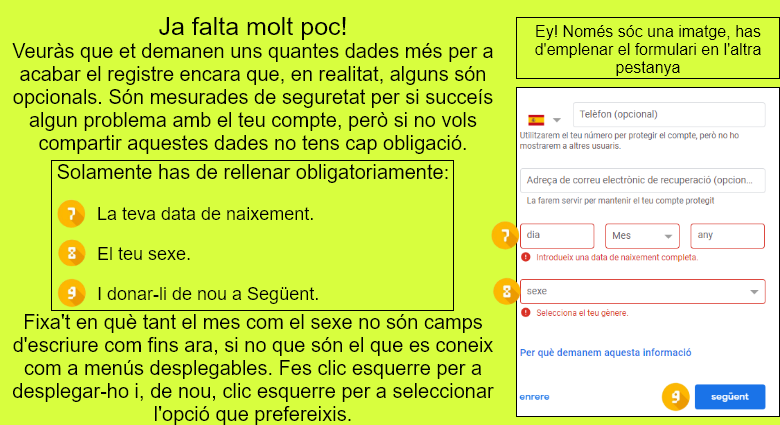
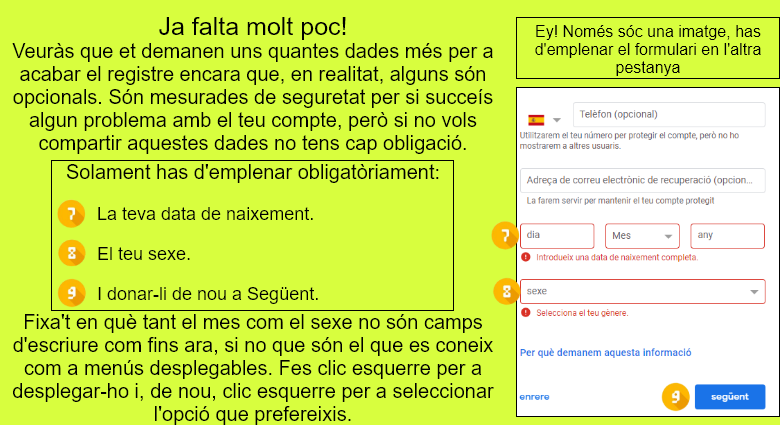
ALL TRANSLATED!

Changed region(s): [[0.0615, 0.3671, 0.5846, 0.4282]]

diff --git a/src/assets/LessonsData.js b/src/assets/LessonsData.js
@@ -20,6 +20,17 @@ import img18cat  from "./images/1.8cat.png"
 import img19cat  from "./images/1.9cat.png"
 import img110cat  from "./images/1.10cat.png"
 import img111cat  from "./images/1.11cat.png"
+import img11en from "./images/1.1en.png"
+import img12en from "./images/1.2en.png"
+import img13en from "./images/1.3en.png"
+import img14en from "./images/1.4en.png"
+import img15en from "./images/1.5en.png"
+import img16en from "./images/1.6en.png"
+import img17en from "./images/1.7en.png"
+import img18en from "./images/1.8en.png"
+import img19en from "./images/1.9en.png"
+import img110en from "./images/1.10en.png"
+import img111en from "./images/1.11en.png"
 import img21es from "./images/2.1es.png"
 import img22es from "./images/2.2es.png"
 import img23es from "./images/2.3es.png"
@@ -40,6 +51,16 @@ import img27cat from "./images/2.7cat.png"
 import img28cat from "./images/2.8cat.png"
 import img29cat from "./images/2.9cat.png"
 import img210cat from"./images/2.10cat.png"
+import img21en from "./images/2.1en.png"
+import img22en from "./images/2.2en.png"
+import img23en from "./images/2.3en.png"
+import img24en from "./images/2.4en.png"
+import img25en from "./images/2.5en.png"
+import img26en from "./images/2.6en.png"
+import img27en from "./images/2.7en.png"
+import img28en from "./images/2.8en.png"
+import img29en from "./images/2.9en.png"
+import img210en from"./images/2.10en.png"
 
 export const lessonsData = [
     {
@@ -51,61 +72,73 @@ export const lessonsData = [
                 textoBoton: 'lessonContent.lesson1.btn1',
                 imges: img11es,
                 imgcat: img11cat,
+                imgen: img11en,
             },
             {
                 textoBoton: 'lessonContent.lesson1.btn2',
                 imges: img12es,
                 imgcat: img12cat,
+                imgen: img12en,
             },
             {
                 textoBoton: 'lessonContent.lesson1.btn3',
                 imges: img13es,
                 imgcat: img13cat,
+                imgen: img13en,
             },
             {
                 textoBoton: 'lessonContent.lesson1.btn4',
                 imges: img14es,
                 imgcat: img14cat,
+                imgen: img14en,
             },
             {
                 textoBoton: 'lessonContent.lesson1.btn5',
                 imges: img15es,
                 imgcat: img15cat,
+                imgen: img15en,
             },
             {
                 textoBoton: 'lessonContent.lesson1.btn6',
                 imges: img16es,
                 imgcat: img16cat,
+                imgen: img16en,
             },
             {
                 textoBoton: 'lessonContent.lesson1.btn7',
                 imges: img17es,
                 imgcat: img17cat,
+                imgen: img17en,
             },
             {
                 textoBoton: 'lessonContent.lesson1.btn8',
                 imges: img18es,
                 imgcat: img18cat,
+                imgen: img18en,
             },
             {
                 textoBoton: 'lessonContent.lesson1.btn9',
                 imges: img19es,
                 imgcat: img19cat,
+                imgen: img19en,
             },
             {
                 textoBoton: 'lessonContent.lesson1.btn10',
                 imges: img110es,
                 imgcat: img110cat,
+                imgen: img110en,
             },
             {
                 textoBoton: 'lessonContent.lesson1.btn11',
                 imges: img111es,
                 imgcat: img111cat,
+                imgen: img111en,
             },
             {
                 textoBoton: 'lessonContent.lesson1.btn12',
                 imges: img111es,
                 imgcat: img111cat,
+                imgen: img111en,
             },
         ],
 
@@ -119,51 +152,61 @@ export const lessonsData = [
                 textoBoton: 'lessonContent.lesson2.btn1',
                 imges: img21es,
                 imgcat: img21cat,
+                imgen: img21en,
             },
             {
                 textoBoton: 'lessonContent.lesson2.btn2',
                 imges: img22es,
                 imgcat: img22cat,
+                imgen: img22en,
             },
             {
                 textoBoton: 'lessonContent.lesson2.btn3',
                 imges: img23es,
                 imgcat: img23cat,
+                imgen: img23en,
             },
             {
                 textoBoton: 'lessonContent.lesson2.btn4',
                 imges: img24es,
                 imgcat: img24cat,
+                imgen: img24en,
             },
             {
                 textoBoton: 'lessonContent.lesson2.btn5',
                 imges: img25es,
                 imgcat: img25cat,
+                imgen: img25en,
             },
             {
                 textoBoton: 'lessonContent.lesson2.btn6',
                 imges: img26es,
                 imgcat: img26cat,
+                imgen: img26en,
             },
             {
                 textoBoton: 'lessonContent.lesson2.btn7',
                 imges: img27es,
                 imgcat: img27cat,
+                imgen: img27en,
             },
             {
                 textoBoton: 'lessonContent.lesson2.btn8',
                 imges: img28es,
                 imgcat: img28cat,
+                imgen: img28en,
             },
             {
                 textoBoton: 'lessonContent.lesson2.btn9',
                 imges: img29es,
                 imgcat: img29cat,
+                imgen: img29en,
             },
             {
                 textoBoton: 'lessonContent.lesson2.btn10',
                 imges: img210es,
                 imgcat: img210cat,
+                imgen: img210en,
             },
         ],
     },

diff --git a/src/components/LessonStructure.js b/src/components/LessonStructure.js
@@ -15,7 +15,7 @@ export function LessonStructure({numOfButtons, contenido, lesson}) {
     const actualLanguage = i18n.language
     const imgESP = <img src={contenido[index].imges} alt="img"/>
     const imgCAT = <img src={contenido[index].imgcat} alt="img"/>
-    const imgENG= <img src={contenido[index].imges} alt="img"/>
+    const imgENG= <img src={contenido[index].imgen} alt="img"/>
     const imgTEC = <div id="juego-teclado"><JuegoTeclado/></div>
 
     return (
